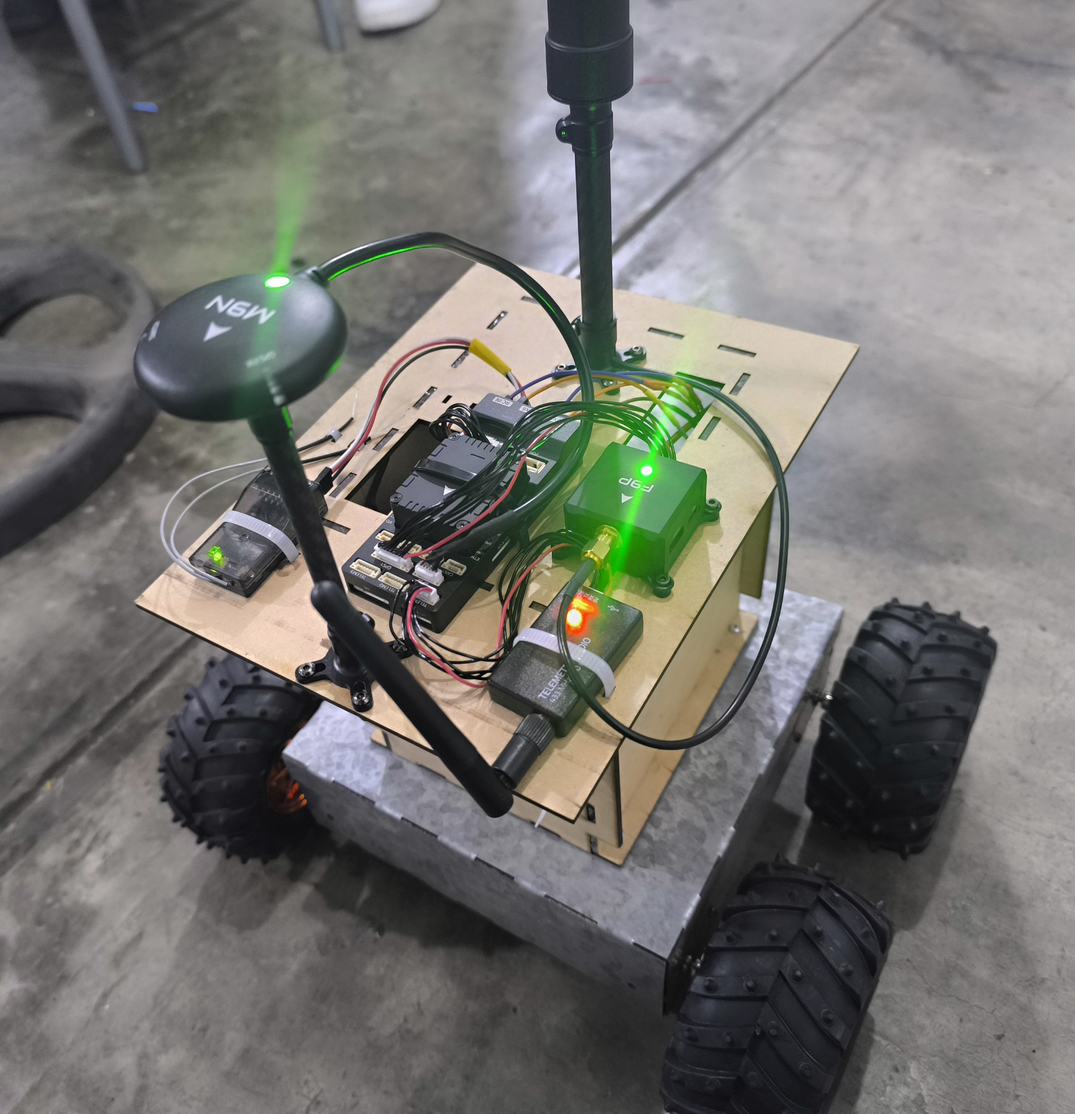
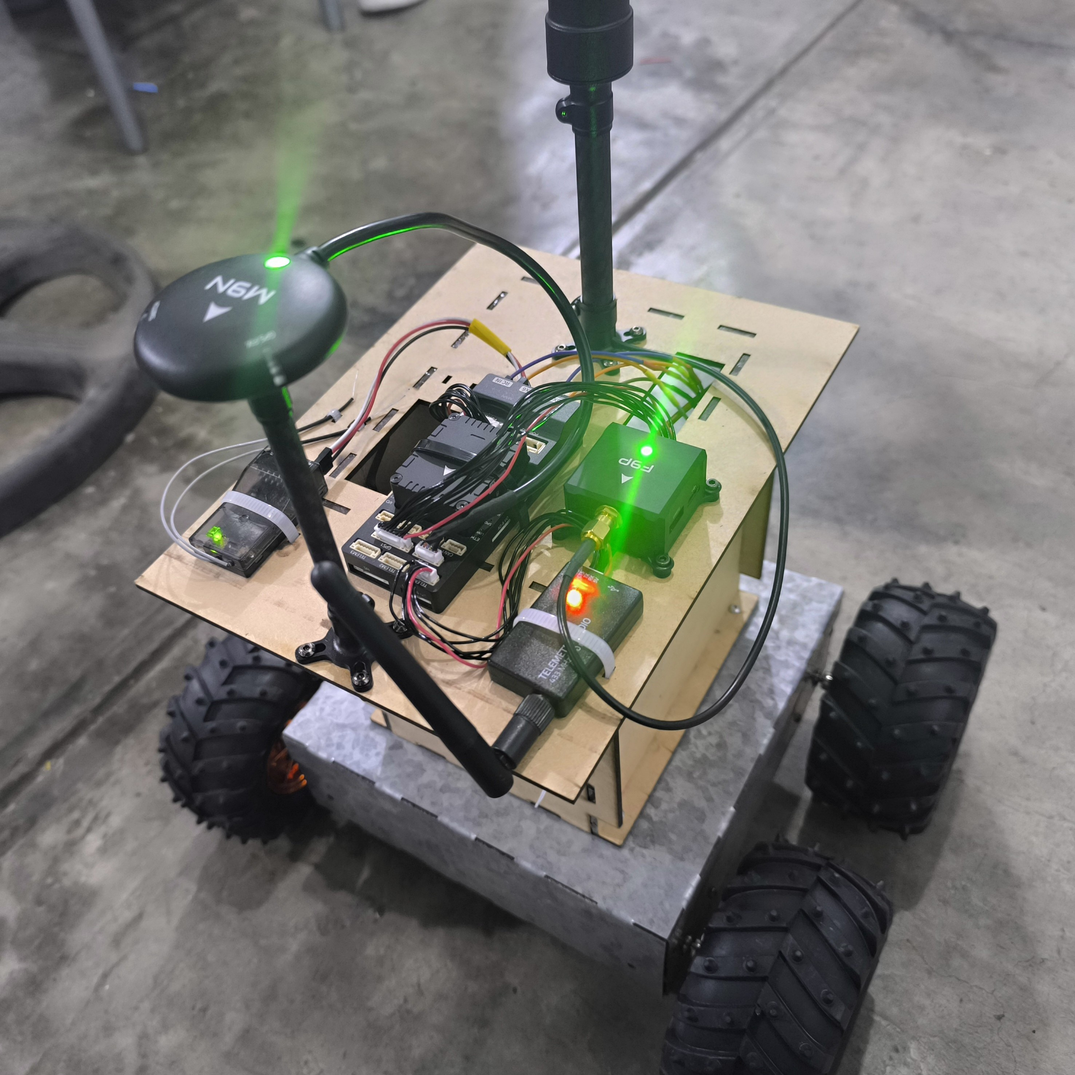
update published projects

diff --git a/_projects/1_project.md b/_projects/1_project.md
@@ -21,7 +21,6 @@ ASMoV is an autonomous ground robot developed at **Innovo** (Lima, Peru) to perf
     ASMoV in electric substation.
 </div>
 
----
 
 ## Prototype I — Design Validation
  
@@ -31,8 +30,8 @@ The first prototype focused on validating the robot's core physical platform. **
 - Power electronics and safety circuit design for reliable operation near energized equipment
 - Integration and validation of the primary sensor suite
 - Baseline testing of the robot's ability to operate in a substation-like environment
+- Manual Teleoperation by Radio Frecuency
 
----
 
 ## Prototype II — Autonomy
  
@@ -74,90 +73,62 @@ The final robot was tested initially in an environment different from the final 
     </div>
 </div>
 <div class="caption">
-    ASMoV Robot. Working at wiring with <a href='https://pe.linkedin.com/in/esau-vladimir-arqueros-plasencia-062802188'>Esau Arqueros</a>. Robot in electric substation. Final robot
+    ASMoV Robot. Left, working at wiring with <a href='https://pe.linkedin.com/in/esau-vladimir-arqueros-plasencia-062802188'>Esau Arqueros</a>. Middle, robot in electric substation. Right, final robot
 </div>
 
----
 
 ## Technical Stack
  
 **Robotics Middleware & Software**
-- ROS2
-- C++ / Python
-- CAN bus (low-level communication with onboard modules and actuators)
-- STM32 (Microcontrollers)
-
-**Electronics & Power Electronics**
-- Power distribution and actuation circuit design
-- Dedicated safety circuits for hazardous-environment operation
-
-**Perception & Computer Vision**
-- Instance segmentation
-- PyTorch / OpenCV
-- NVIDIA Jetson (embedded AI deployment)
-
-**Navigation & Localization**
-- GNSS-RTK for precise outdoor positioning
-- Stereo Camera / Point Cloud
-- Coverage path planning algorithms / Graphs
-
-**Safety & Reliability**
-- Redundant sensing and fail-safe design for operation near energized equipment
-
----
-
-## Role & Impact
- 
-As lead of the second prototype, I was responsible for taking the platform from a manually validated base into an autonomous system capable of planning and executing its own coverage task in a constrained, safety-critical environment. I also contributed to the electronics and safety-critical circuit design established in the first prototype.
- 
----
- 
- *Due to a confidentiality agreement with Innovo, technical designs, schematics, and source code from this project cannot be shared publicly.*
-
-
-    ---
-    *Due to a confidentiality agreement with Innovo, technical designs, schematics, and source code from this project cannot be shared publicly.*
-    ---
-
-## Technical Stack
- 
-<div class="mb-2"><strong>Robotics Middleware &amp; Software</strong></div>
 <div class="mb-3">
     <span class="badge rounded-pill bg-secondary">ROS2</span>
     <span class="badge rounded-pill bg-secondary">C++</span>
     <span class="badge rounded-pill bg-secondary">Python</span>
     <span class="badge rounded-pill bg-secondary">CAN Bus</span>
+    <span class="badge rounded-pill bg-secondary">STM32</span>
 </div>
-<div class="mb-2"><strong>Electronics &amp; Power Electronics</strong></div>
+
+**Electronics & Power Electronics**
 <div class="mb-3">
     <span class="badge rounded-pill bg-secondary">Power Electronics</span>
     <span class="badge rounded-pill bg-secondary">Circuit Design</span>
     <span class="badge rounded-pill bg-secondary">Safety Circuits</span>
 </div>
-<div class="mb-2"><strong>Perception &amp; Computer Vision</strong></div>
+
+**Perception & Computer Vision**
 <div class="mb-3">
     <span class="badge rounded-pill bg-secondary">Instance Segmentation</span>
     <span class="badge rounded-pill bg-secondary">PyTorch</span>
     <span class="badge rounded-pill bg-secondary">OpenCV</span>
     <span class="badge rounded-pill bg-secondary">NVIDIA Jetson</span>
 </div>
-<div class="mb-2"><strong>Navigation &amp; Localization</strong></div>
+
+**Navigation & Localization**
 <div class="mb-3">
     <span class="badge rounded-pill bg-secondary">GNSS-RTK</span>
+    <span class="badge rounded-pill bg-secondary">Stereo Camera</span>
+    <span class="badge rounded-pill bg-secondary">Point Cloud</span>
     <span class="badge rounded-pill bg-secondary">Coverage Path Planning</span>
+    <span class="badge rounded-pill bg-secondary">Graphs algorithms</span>
 </div>
-<div class="mb-2"><strong>Safety &amp; Reliability</strong></div>
+
+**Safety & Reliability**
 <div class="mb-3">
     <span class="badge rounded-pill bg-secondary">Redundant Sensing</span>
     <span class="badge rounded-pill bg-secondary">Fail-Safe Design</span>
 </div>
+
+
+
 ## Role & Impact
  
 As lead of the second prototype, I was responsible for taking the platform from a manually validated base into an autonomous system capable of planning and executing its own coverage task in a constrained, safety-critical environment. I also contributed to the electronics and safety-critical circuit design established in the first prototype.
  
-<div class="alert alert-secondary d-flex align-items-center mt-4" role="alert">
-    <i class="fa-solid fa-lock me-2"></i>
+---
+
+ <div class="alert alert-secondary d-flex align-items-center mt-4" role="alert">
+    <i class="fa-solid fa-lock me-2" style="font-style: italic;"></i>
     <div>
-        Due to a confidentiality agreement with Innovo, technical designs, schematics, and source code from this project cannot be shared publicly.
+         Due to a confidentiality agreement with Innovo, technical designs, schematics, and source code from this project cannot be shared publicly
     </div>
 </div>

diff --git a/_projects/3_project.md b/_projects/3_project.md
@@ -1,8 +1,8 @@
 ---
 layout: page
 title: DTA-VALVE
-description: Digital twin of the automated thermo-expansive valve assembly process for the Parker Hannifin. Project developed at TEC de Monterrey.
-img: assets/img/projects/3_parker/plant_process_v2.png
+description: Digital twin of the automated thermo-expansive valve assembly process for the Parker Hannifin. Project developed @ TEC de Monterrey.
+img: assets/img/projects/3_parker/plant_process.jpg
 # redirect: https://www.wikipedia.org/
 importance: 2
 category: academic

diff --git a/_projects/6_project.md b/_projects/6_project.md
@@ -1,7 +1,7 @@
 ---
 layout: page
 title: Impedance Control for Open Manipulator
-description: Advanced Robotics Course Project at <a href='https://utec.edu.pe/'>UTEC</a>. Implementation of impedance control for Open Manipulator
+description: Advanced Robotics Course Project @ UTEC. Implementation of impedance control for Open Manipulator
 img: assets/img/projects/6_impedance/control.gif
 importance: 4
 category: academic

diff --git a/_projects/4_project.md b/_projects/4_project.md
@@ -1,10 +1,11 @@
 ---
 layout: page
 title: Asparagus Harvesting Robot
-description: Mechatronics Design Proyect. A robot for asparagus harvesting.
+description: Mechatronics Design Project @ UTEC. A robot for asparagus harvesting.
 img: assets/img/projects/4_asp_robot/robot.jpeg
 importance: 3
 category: academic
+published: false
 ---
 
 Every project has a beautiful feature showcase page.

diff --git a/_projects/7_project.md b/_projects/7_project.md
@@ -5,7 +5,8 @@ description: Project for autonomous robotics course at <a href='https://utec.edu
 img: assets/img/projects/7_slam/map_rgbd.png
 importance: 5
 category: academic
-related_publications: true
+# related_publications: true
+published: false
 ---
 
 Every project has a beautiful feature showcase page.

diff --git a/_projects/9_project.md b/_projects/9_project.md
@@ -5,7 +5,7 @@ description: Control of omnidirectional robot for manipulation tasks
 img: assets/img/projects/9_fdr_robot/robot_.gif
 importance: 6
 category: academic
-giscus_comments: false
+# giscus_comments: false
 ---
 
 Every project has a beautiful feature showcase page.

diff --git a/_projects/8_project.md b/_projects/8_project.md
@@ -5,7 +5,8 @@ description: Formula Student Electric Team in Peru
 img: assets/img/projects/8_ohm/car_render.jpeg
 importance: 2
 category: fun
-giscus_comments: true
+# giscus_comments: true
+published: false
 ---
 
 Every project has a beautiful feature showcase page.
